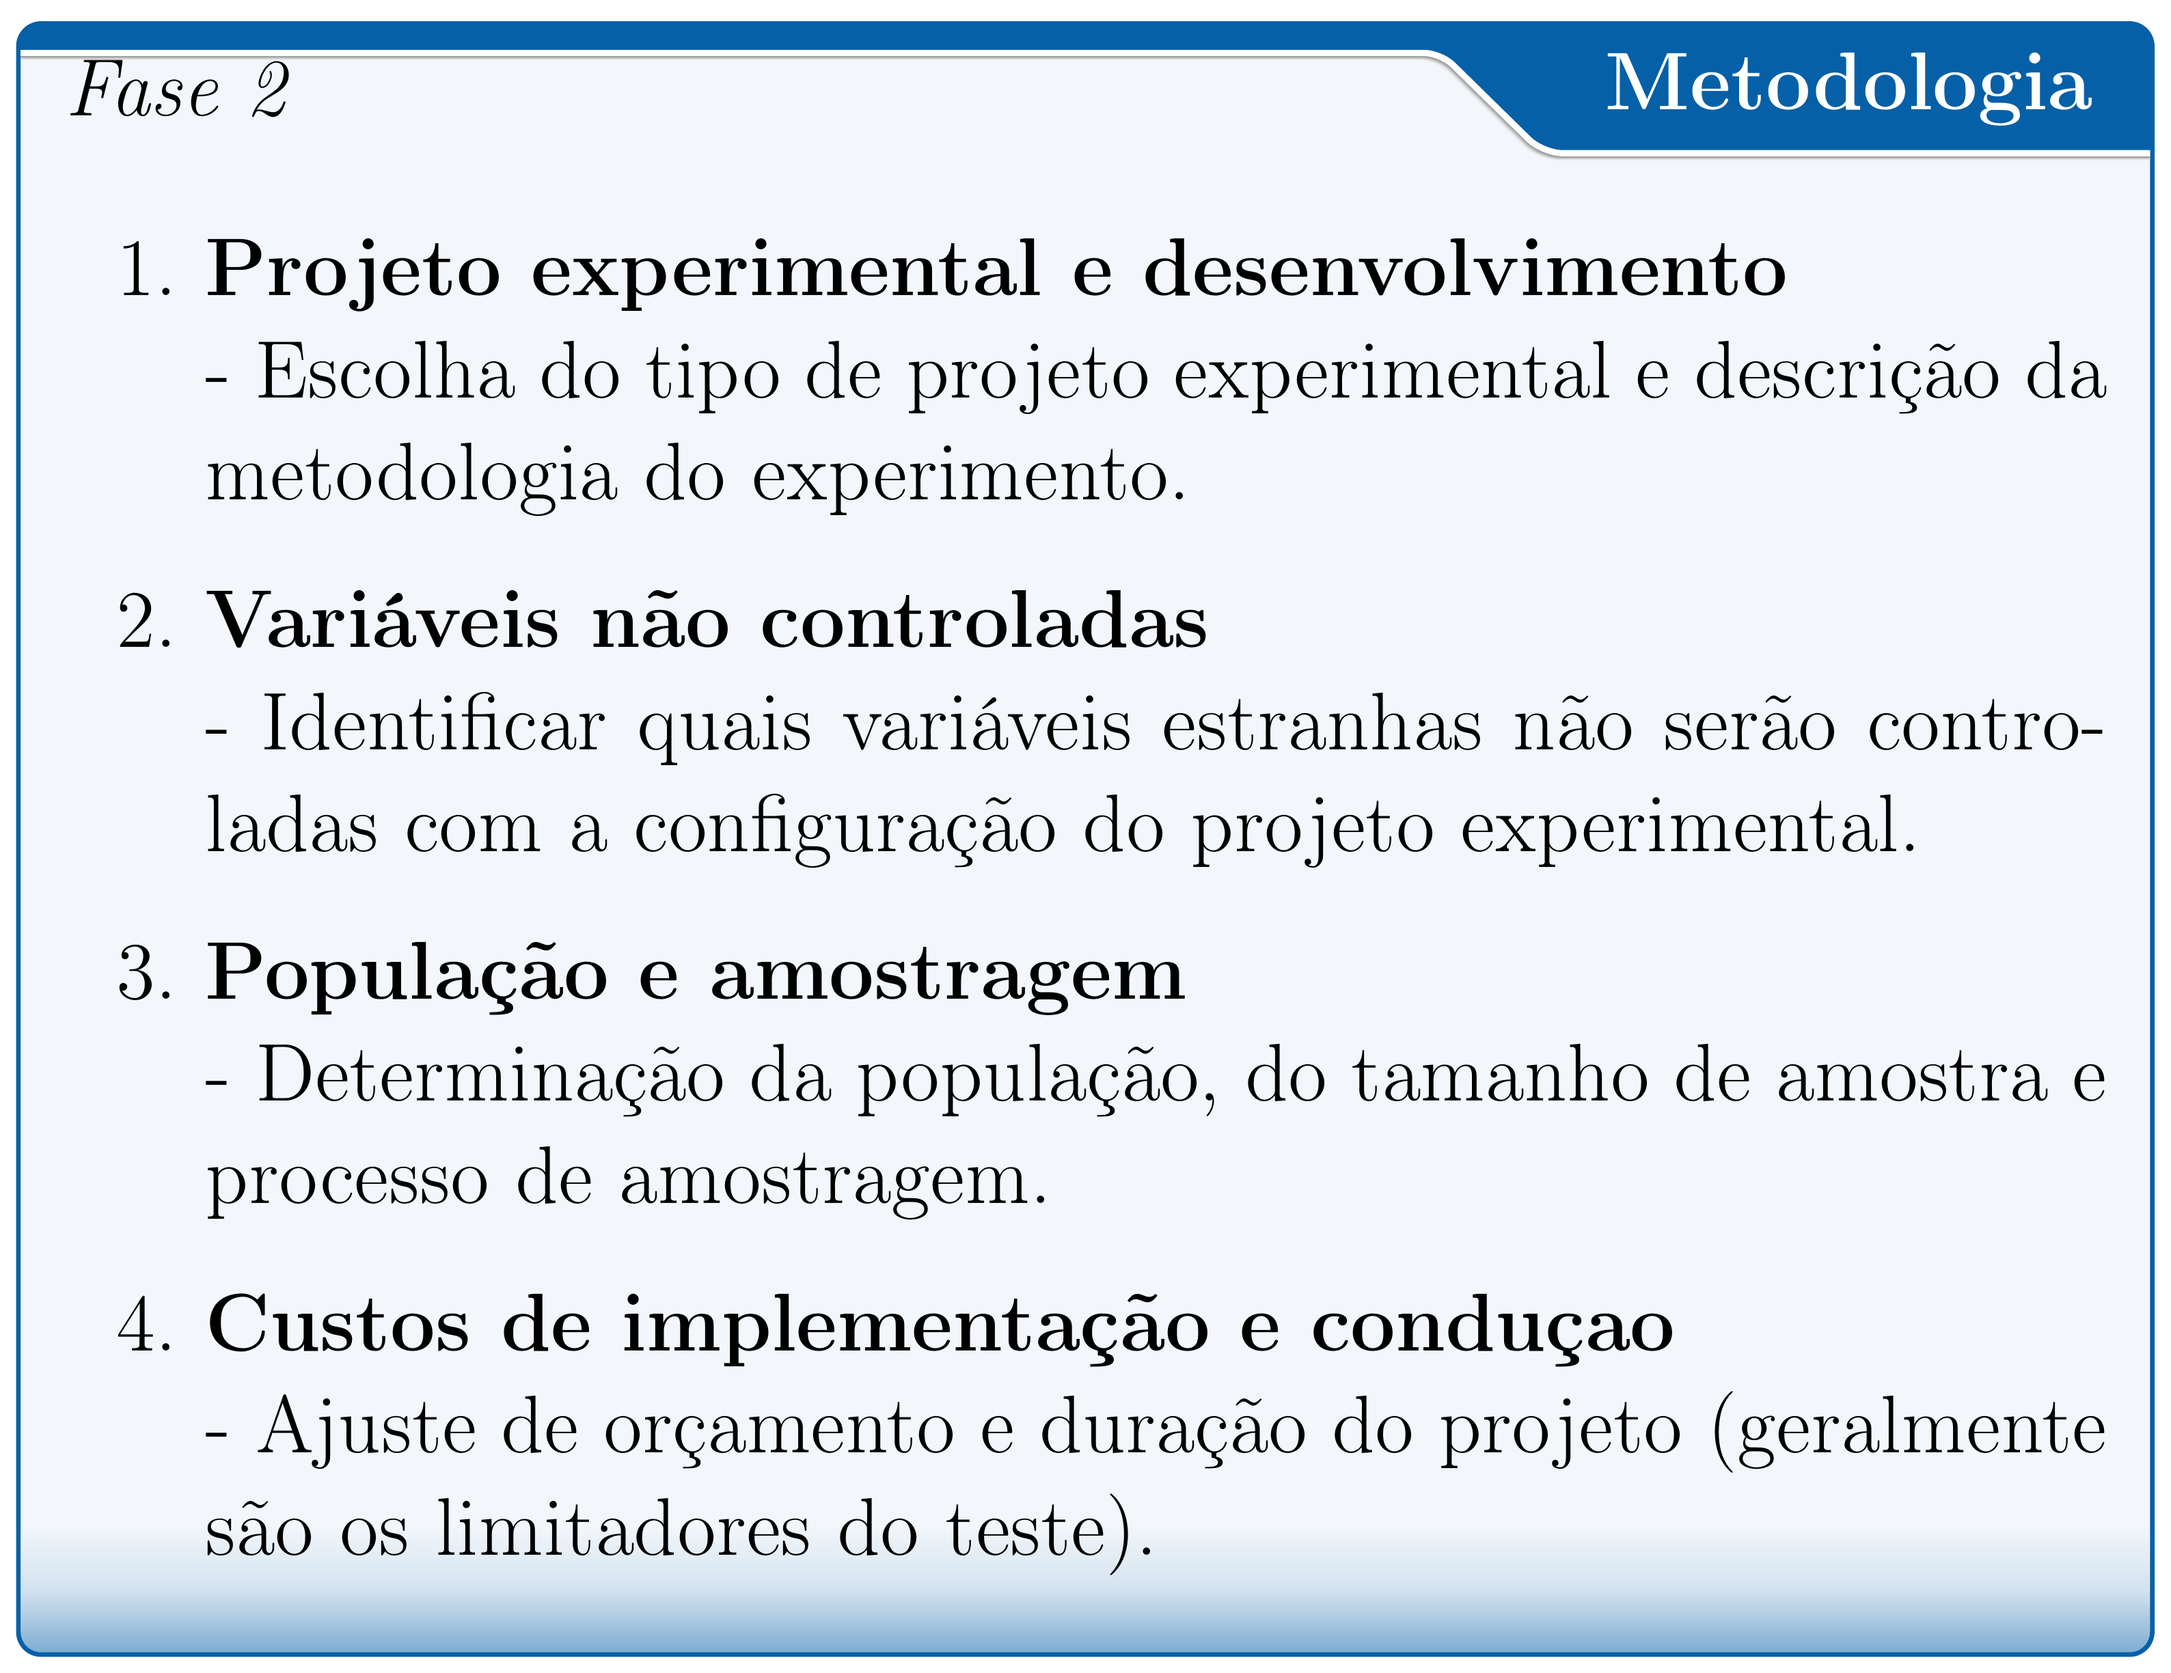
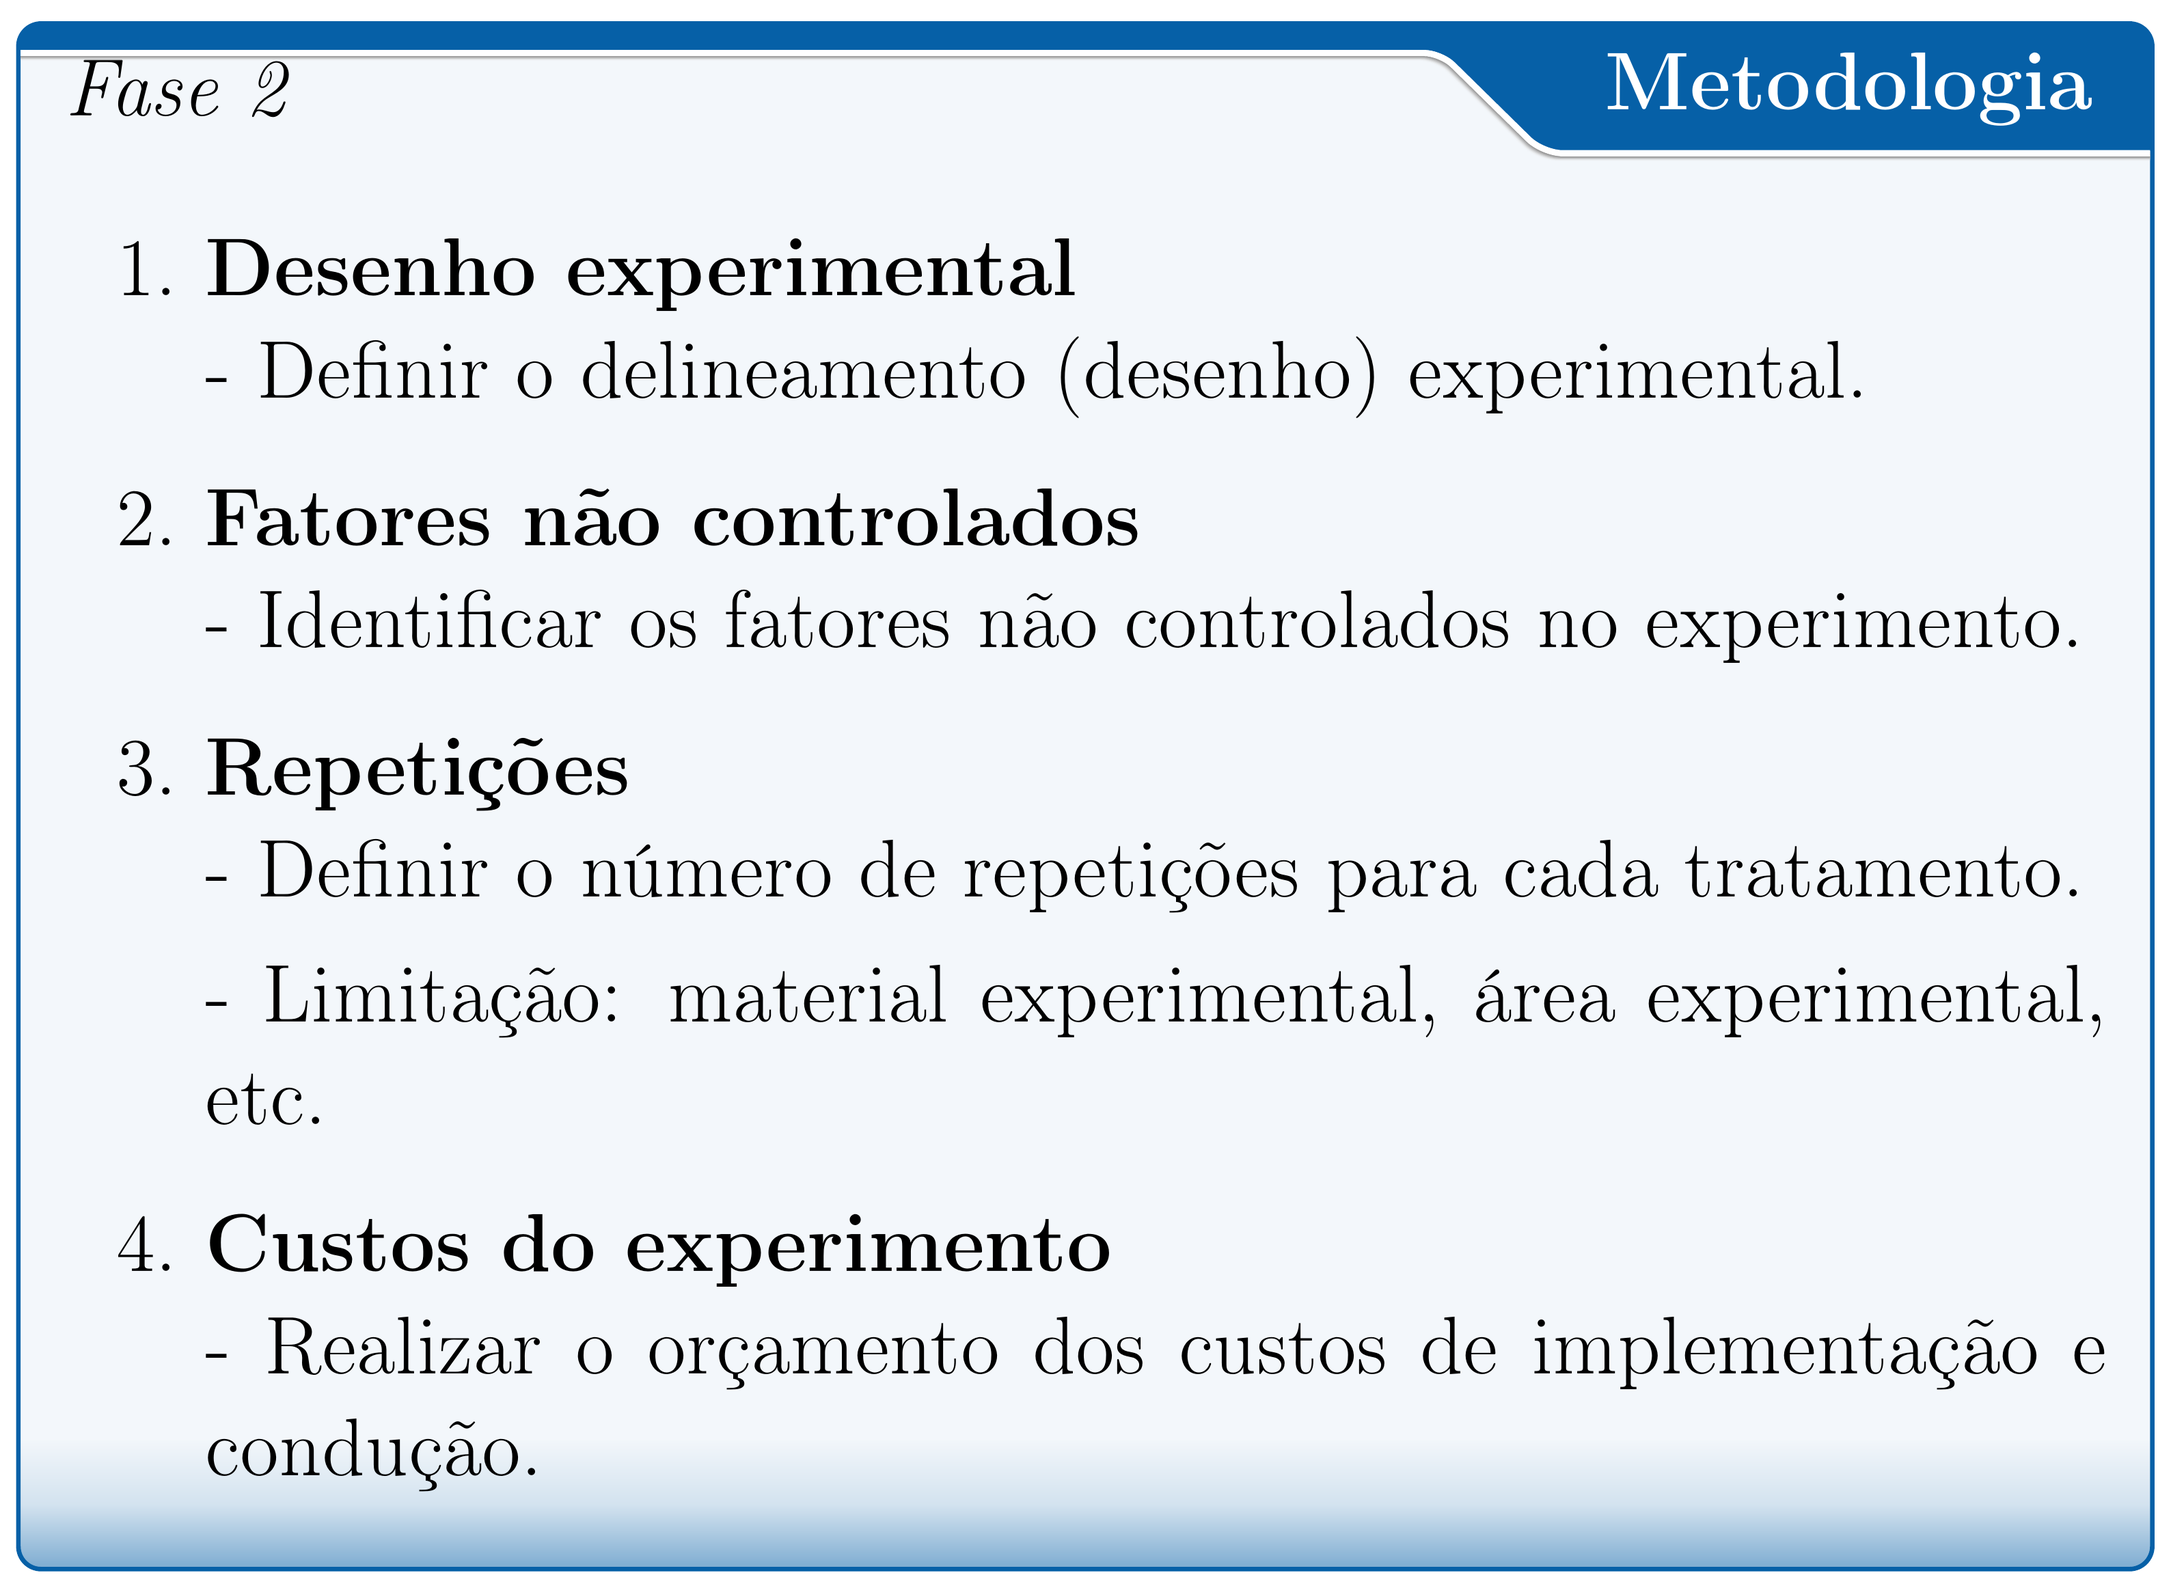
Update class 1

diff --git a/Slides/Aula1-Conceitos-Principios-Planejamento.html b/Slides/Aula1-Conceitos-Principios-Planejamento.html
@@ -597,11 +597,49 @@ Fonte: [pt.wikipedia.org](https://pt.wikipedia.org/wiki/Experimenta%C3%A7%C3%A3o
 
 
 --
-TTTTTTTTTTTTTTT
+
+.font80[
+**Desenho experimental**
+
+-&gt; DIC, DBC, DQL, Ensaio Fatorial, etc.
+
+]
 
 --
-XXXXXXXXXXXXXx
 
+.font80[
+**Fatores não controlados**
+
+-&gt; Ex.: Temperatura, Umidade relativa do ar
+
+
+]
+
+--
+
+.font80[
+**Repetições**
+
+-&gt; Ex.: 5 repetições de 200 sementes.
+
+]
+
+--
+
+.font80[
+**Custos do experimento**
+
+-&gt; Recurso financeiro é um fator limitante.
+
+]
+
+
+---
+
+## Fases de um experimento
+&lt;br&gt;
+
+&lt;img src="fig/class1/F3.png" width="50%" style="display: block; margin: auto;" /&gt;
 
 ---
 ## Referências
